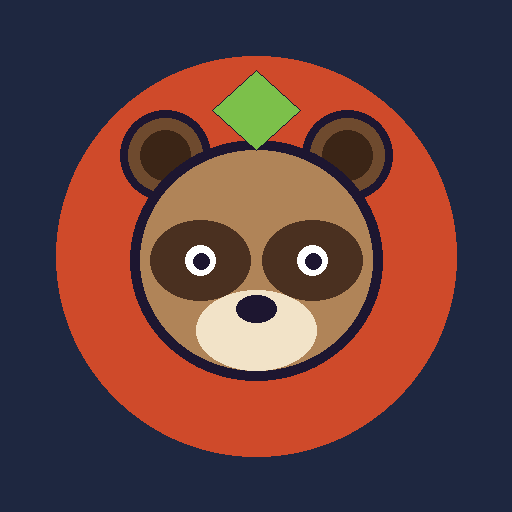
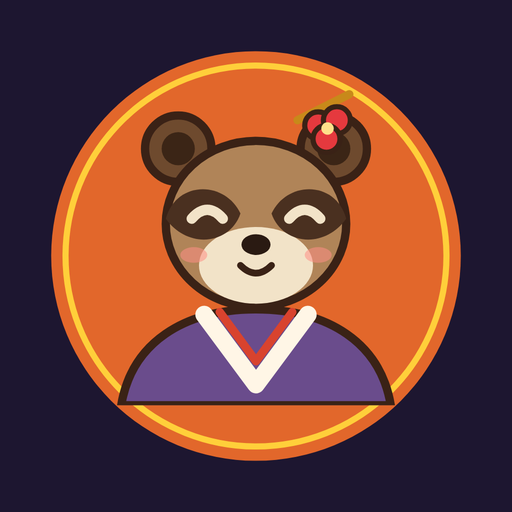
Google Play版：広告（ごほうび広告・ときどき全画面）、Androidアプリ化（Capacitor 8・API 36・縦向き）、GitHubで自動ビルド、新しいアイコン
Claude-Session: https://claude.ai/code/session_0179dnWVGKFM3khheaiQN4n4

diff --git a/index.html b/index.html
@@ -113,6 +113,9 @@ svg .kimono{fill:var(--kimono,#6a4c8c)} svg .hana{fill:var(--hana,#e5393e)}
 .chapclear{position:relative;margin:4px auto 2px;padding:6px 18px;border-radius:8px;background:linear-gradient(#fff3c8,#ffd76a);box-shadow:0 0 0 2.5px #7a4a12,0 3px 0 2.5px #7a4a12;font-family:var(--f-wa);font-size:15px;color:#5a3006;animation:stampin .5s 1.25s both}
 .chapclear small{display:block;font-family:inherit;font-size:11px;color:#8a5a16}
 @keyframes stampin{0%{opacity:0;transform:scale(2.2) rotate(-8deg)}70%{opacity:1;transform:scale(.94) rotate(1deg)}100%{transform:none}}
+.adbtn{display:flex;flex-direction:column;align-items:center;gap:1px;width:100%;margin:8px 0 2px;padding:9px 12px;border:0;border-radius:12px;background:linear-gradient(#3fbf6a,#2a9a50);color:#fff;box-shadow:0 0 0 2.5px #1d1630,0 3px 0 2.5px #1d1630;font-family:var(--f-wa)}
+.adbtn b{font-size:15px;letter-spacing:.04em}.adbtn small{font-size:11.5px;font-weight:800;opacity:.92}
+.adbtn:disabled{filter:grayscale(.7);opacity:.6}
 .achh{margin:8px 0 4px;font-family:var(--f-wa);font-size:13px;color:#f3e3b8;letter-spacing:.05em}
 .achnew{color:var(--ink);width:100%;margin:6px 0 0;padding:7px 10px;border-radius:10px;background:#fff7dc;box-shadow:0 0 0 2px #e9b33a;font-size:12.5px;font-weight:800;text-align:left;animation:rlin .45s 1.5s both}
 .achnew b{color:#b06a00}
@@ -1664,6 +1667,8 @@ function startDay(){
     foes:[],foeT:7,bossDone:false,atkT:1.5,pochiT:2,raidN:0,raidT:0,sp:S.sp||0,ev:null,leak:null,
     evQ:pickEvents(D),rtag:Array.from({length:D.cols*D.floors},()=>D.scroll?TAGS[Math.random()*3|0]:null)});
   for(const o of els.values()){o.el.remove();o.rq&&o.rq.remove()} els.clear();
+  // 広告を見た「助けつき再挑戦」：次の1回だけ時間＋10秒・ふすま＋1
+  if(AD_HELP&&AD_HELP.day===S.day&&!D.endless){S.t+=10;if(D.fusuma)S.fstock+=1;S.helped=true} AD_HELP=null;
   // 前の面の一時停止・吹き出しの残りを片づける
   stage.querySelectorAll('.paused,.coach').forEach(e=>e.remove()); document.querySelector('.tut')?.remove(); hint=null; stage.classList.remove('lastten','rainy');
   for(const o of foeEls.values()) o.el.remove(); foeEls.clear();
@@ -1965,7 +1970,7 @@ function endDay(result){
     S.newAch=checkAch({nofight:result==='clear'&&!D.endless&&!D.daily&&n>=11&&S.stat.fights===0,double:result==='clear'&&!D.endless&&S.cr>=tgt(D)*2});
     if(S.newAch.some(k=>KIMONO.some(m=>m.need===k))) applyKimono();
     save(); }
-  S.history[S.day]={cr:S.cr,result};
+  S.history[S.day]={cr:S.cr,result}; ADS.cnt++;
   sfx(result==='clear'?'win':'lose');
   flash(result==='clear'?'閉店！':result==='caught'?'大騒動！':result==='abandon'?'組合が激怒！':'閉店…',result==='caught'||result==='abandon');
   dirty=true;
@@ -2819,7 +2824,7 @@ try{
   if(!document.querySelector('link[rel=manifest]')) add('link',{rel:'manifest',href:'manifest.webmanifest'});
   add('link',{rel:'apple-touch-icon',href:'icon-192.png'});
   add('meta',{name:'theme-color',content:'#1e2740'}); add('meta',{name:'apple-mobile-web-app-capable',content:'yes'});
-  if('serviceWorker' in navigator&&location.protocol==='https:') navigator.serviceWorker.register('sw.js').catch(()=>{});
+  if('serviceWorker' in navigator&&location.protocol==='https:'&&!(window.Capacitor&&Capacitor.isNativePlatform&&Capacitor.isNativePlatform())) navigator.serviceWorker.register('sw.js').catch(()=>{}); // アプリ版では使わない
 }catch(e){}
 addEventListener('touchend',onUserTap,{passive:true});
 addEventListener('click',onUserTap,{passive:true});
@@ -2998,7 +3003,7 @@ function showScreen(){
         ${nb?'<span class="newrec">自己ベスト更新！</span>':`<p class="note">自己ベスト ${SV.best}組</p>`}
         <div class="failwhy">${why}（${Math.floor(D.time-S.t)}秒）</div>
         <dl class="result"><dt>売上</dt><dd>${S.cr}円</dd><dt>湯仲間ボーナス</dt><dd>${S.stat.chain}回</dd><dt>撃退した山賊</dt><dd>${S.stat.beat}匹</dd></dl>
-        <p class="earn">＋${S.earn.toLocaleString()} 小判<small>（宿の改装に使える）</small></p></div>
+        <p class="earn">＋${S.earn.toLocaleString()} 小判<small>（宿の改装に使える）</small></p>${adBtnHTML('clear')}</div>
         <div class="btnrow resrow stick"><button class="go" data-go="endless">もう一度</button><button class="go sub" data-go="map">ステージ選択</button></div>`;
       scr.hidden=false; focusTop(sc.querySelector('button')); return;
     }
@@ -3034,7 +3039,7 @@ function showScreen(){
       <h2 class="${r==='caught'||r==='abandon'?'R':''}">${title}</h2>
       <dl class="result"><dt>泊まったお客</dt><dd>${S.stat.served}組</dd>${D.tags?`<dt>湯仲間ボーナス</dt><dd>${S.stat.chain}回</dd>`:''}${D.foes?`<dt>撃退した山賊</dt><dd>${S.stat.beat}匹</dd>`:''}</dl>
       <p class="earn">＋${S.earn.toLocaleString()} 小判<small>（宿の改装に使える）</small></p>
-      ${chapc}${resultLine(D,r,n)}${achLine(S.newAch||[])}${tip}${ups}</div>
+      ${chapc}${adBtnHTML(r==='clear'?'clear':'fail')}${resultLine(D,r,n)}${achLine(S.newAch||[])}${tip}${ups}</div>
       <div class="btnrow resrow stick">${r==='clear'&&last?'<button class="go" data-story="end">最終話を見る</button>':''}${btn}<button class="go sub" data-go="map">ステージ選択</button></div>`;
   }
   scr.hidden=false; focusTop(sc.querySelector('button'));
@@ -3184,6 +3189,81 @@ function resultLine(D,r,n){
     const tw=D.tw||{}; if(tw.kouji)c.push('工事のトンカチの音、お客さんにはないしょです。'); if(tw.rain)c.push('雨もり、なんとかしのぎました…！'); if(tw.moon)c.push('満月の夜は、化け術がもたなくてドキドキします。'); if(tw.fast)c.push('せっかちなお客さん、はやく案内できてよかった！'); t=pick(c)}
   else t=r==='caught'?pick(['あわわ…ケンカになっちゃいました。次は間をあけて…！','壁かふすま、もっと使えばよかったかも…。']):r==='abandon'?pick(['お客さんを待たせすぎちゃいました…。','満室のときは、お帰りいただくのも手ですね…。']):pick(['あとちょっと…！ もうひとがんばりです。','おしい！ つぎはもっとお代をいただきましょう。']);
   return `<div class="rline${bad?' bad':''}"><div class="rf">${CH[who].svg()}</div><p><small>${CH[who].name}</small>${t}</p></div>`;
+}
+
+/* ================= 広告（第9版：アプリ版だけ。Web版では何もしない） ================= */
+// 広告IDはアプリを作るときに GitHub の設定から入る。未設定ならGoogleのテスト用ID
+const AD_CFG={rewarded:'__ADMOB_REWARDED_ID__',inter:'__ADMOB_INTERSTITIAL_ID__'};
+const AD_TEST={rewarded:'ca-app-pub-3940256099942544/5224354917',inter:'ca-app-pub-3940256099942544/1033173712'};
+const IS_APP=!!(window.Capacitor&&typeof Capacitor.isNativePlatform==='function'&&Capacitor.isNativePlatform());
+const AD_EVERY=3, AD_GAP=180000, AD_FROM=5; // 全画面広告：3面ごと・3分以上あけて・ステージ5から
+const ADS={on:false,rw:false,it:false,busy:false,cnt:0,last:0,privacy:false,test:true,plug:null,got:false,done:null};
+const adId=k=>{const v=AD_CFG[k];return v&&!v.startsWith('__')?v:AD_TEST[k]};
+async function adsInit(){
+  if(!IS_APP) return;
+  try{
+    const A=ADS.plug=(Capacitor.Plugins&&Capacitor.Plugins.AdMob)||Capacitor.registerPlugin('AdMob');
+    ADS.test=AD_CFG.rewarded.startsWith('__');
+    // 同意が必要な地域（ヨーロッパなど）では、最初に同意の画面を出す
+    let info=await A.requestConsentInfo();
+    if(info.isConsentFormAvailable&&info.status==='REQUIRED') info=await A.showConsentForm();
+    ADS.privacy=info.privacyOptionsRequirementStatus==='REQUIRED';
+    if(!info.canRequestAds) return;
+    await A.initialize({maxAdContentRating:'ParentalGuidance',tagForChildDirectedTreatment:false,tagForUnderAgeOfConsent:false});
+    ADS.on=true;
+    // ごほうび広告の約束（Promise）は、ごほうびを得たときしか返ってこないので、閉じたことは「閉じた」知らせで受け取る
+    A.addListener('onRewardedVideoAdReward',()=>{ADS.got=true});
+    const fin=()=>{const d=ADS.done;ADS.done=null;d&&d()};
+    for(const ev of ['onRewardedVideoAdDismissed','onRewardedVideoAdFailedToShow','interstitialAdDismissed','interstitialAdFailedToShow']) A.addListener(ev,fin);
+    A.addListener('onRewardedVideoAdFailedToLoad',()=>{ADS.rw=false;refreshAdBtns();setTimeout(()=>adLoad('rw'),30000)});
+    A.addListener('interstitialAdFailedToLoad',()=>{ADS.it=false;setTimeout(()=>adLoad('it'),30000)});
+    adLoad('rw'); adLoad('it');
+  }catch(e){ADS.on=false}
+}
+async function adLoad(k){
+  if(!ADS.on) return;
+  try{ if(k==='rw'){await ADS.plug.prepareRewardVideoAd({adId:adId('rewarded'),isTesting:ADS.test});ADS.rw=true;refreshAdBtns()}
+       else{await ADS.plug.prepareInterstitial({adId:adId('inter'),isTesting:ADS.test});ADS.it=true} }catch(e){}
+}
+// 広告を見ている間は、曲も効果音も止める
+function adQuiet(on){
+  ADS.busy=on;
+  if(on){ADS.wasMuted=muted;muted=true;try{for(const k in TRACKS){const T=TRACKS[k];if(T.el&&!T.el.paused){T.el.pause();T.adPaused=true}}ambStopRain();ac&&ac.suspend()}catch(e){}}
+  else{muted=ADS.wasMuted;try{ac&&ac.resume();for(const k in TRACKS){const T=TRACKS[k];if(T.adPaused){T.adPaused=false;if(T.src){const pr=T.el.play();pr&&pr.catch&&pr.catch(()=>{})}}}}catch(e){}}
+}
+function adShow(kind){
+  return new Promise(res=>{
+    if(!ADS.on||ADS.busy||(kind==='rw'?!ADS.rw:!ADS.it)){res(false);return}
+    adQuiet(true); ADS.got=false;
+    const to=setTimeout(()=>{if(ADS.done){ADS.done=null;end()}},120000);
+    const end=()=>{clearTimeout(to);adQuiet(false);ADS.last=Date.now();ADS.cnt=0;
+      if(kind==='rw'){ADS.rw=false;adLoad('rw')}else{ADS.it=false;adLoad('it')} res(kind==='rw'?ADS.got:true)};
+    ADS.done=end;
+    (kind==='rw'?ADS.plug.showRewardVideoAd():ADS.plug.showInterstitial()).then(r=>{if(kind==='rw'&&r)ADS.got=true}).catch(()=>{if(ADS.done){ADS.done=null;end()}});
+  });
+}
+// 結果画面から先へ進むとき、条件がそろったら全画面広告をはさむ
+async function adBreak(){
+  if(!ADS.on||!S||S.adSeen) return;
+  if(ADS.cnt<AD_EVERY||Date.now()-ADS.last<AD_GAP||(typeof S.day==='number'&&S.day+1<AD_FROM&&!DAYS[S.day].daily&&!DAYS[S.day].endless)) return;
+  await adShow('it');
+}
+// ごほうび広告のボタン（クリア：小判2倍／失敗：助けつきで再挑戦）
+function adBtnHTML(r){
+  if(!ADS.on||S.adSeen) return '';
+  if(r==='clear') return S.earn>0?`<button class="adbtn" data-ad="coin" ${ADS.rw?'':'disabled'}><b>▶ 広告を見て 小判2倍</b><small>${ADS.rw?`＋${S.earn.toLocaleString()} 小判`:'広告を読みこみ中…'}</small></button>`:'';
+  if(DAYS[S.day].endless) return '';
+  return `<button class="adbtn" data-ad="help" ${ADS.rw?'':'disabled'}><b>▶ 広告を見て 助けつきで再挑戦</b><small>${ADS.rw?`時間＋10秒${DAYS[S.day].fusuma?'・ふすま＋1':''}（次の1回だけ）`:'広告を読みこみ中…'}</small></button>`;
+}
+function refreshAdBtns(){ const b=sc.querySelector('.adbtn'); if(!b) return; b.outerHTML=adBtnHTML(S.result==='clear'?'clear':'fail') }
+let AD_HELP=null; // 次の挑戦だけ使える助け {day}
+async function onAdBtn(kind){
+  const ok=await adShow('rw'); S.adSeen=true;
+  if(!ok){const b=sc.querySelector('.adbtn'); if(b) b.remove(); return}
+  if(kind==='coin'){SV.bank=(SV.bank||0)+S.earn; S.earn*=2; save(); sfx('coin2'); confetti();
+    const e=sc.querySelector('.earn'); if(e) e.innerHTML=`＋${S.earn.toLocaleString()} 小判<small>（広告で2倍！）</small>`;
+    sc.querySelector('.adbtn')?.remove()}
+  else {AD_HELP={day:S.day}; sfx('special'); startStage(S.day+1)}
 }
 /* ================= ストーリー ================= */
 const CH={
@@ -3561,8 +3641,9 @@ function renderSettings(){
       ${sw('easy',SV.easy,'やさしいモード','時間がゆっくり・目標が少しやさしい')}
       ${sw('vib',c.vib,'ふるえる（バイブ）','ケンカや撃退でスマホがふるえる')}
       ${sw('fx',c.fx,'ゆれ・きらきら演出','オフにすると画面のゆれや粒が出ない')}
-      ${sw('all',!!SV.unlockAll,'すべて解放','全ステージ・強化・ものがたりを最初から使える')}</div>
+      ${IS_APP?'':sw('all',!!SV.unlockAll,'すべて解放','全ステージ・強化・ものがたりを最初から使える')}</div>
     <div class="sgrp"><p class="sh">あそびかた</p><button class="srowbtn" data-tut="1">🔰 チュートリアルをもう一度<span>›</span></button><button class="srowbtn" data-cv="rules">📖 ルール説明をもう一度見る<span>›</span></button><button class="srowbtn" data-op="1">🎬 オープニングをもう一度見る<span>›</span></button></div>
+    ${ADS.privacy?'<div class="sgrp"><p class="sh">広告</p><button class="srowbtn" data-adpriv="1">🛡 広告のプライバシー設定<span>›</span></button></div>':''}
     <div class="sgrp"><p class="sh">データ</p><button class="srowbtn danger ${delArm?'arm':''}" data-del="1">${delArm?'本当に消す？（もう一度タップ）':'🗑 セーブデータを消す'}<span>›</span></button></div>
     <p class="credit">BGM：<a href="https://peritune.com/" target="_blank" rel="noopener">PeriTune</a>「Michikusa」「Michikusa3」「Hanagoyomi2」「Shizima3」</p>
     <button class="go" data-close="1">とじる</button>`;
@@ -3576,6 +3657,7 @@ $('setDlg').addEventListener('click',e=>{
   if(e.target.id==='setDlg'){closeSettings();return}
   const b=e.target.closest('button'); if(!b) return;
   if(b.dataset.close){sfx('sel');closeSettings();return}
+  if(b.dataset.adpriv){sfx('sel');try{ADS.plug.showPrivacyOptionsForm().catch(()=>{})}catch(e){}return}
   if(b.dataset.tut){sfx('sel');SV.tut1=0;save();$('setDlg').hidden=true;document.querySelector('.tut')?.remove();if(S){S.paused=false;stage.querySelector('.paused')?.remove()}startStage(1);return}
   if(b.dataset.cv){sfx('sel');cfgView=b.dataset.cv;renderSettings();return}
   if(b.dataset.op){sfx('sel');$('setDlg').hidden=true;const back=S&&S.scene==='map'?showMap:S&&S.scene==='title'?showScreen:null;playOpening(()=>{if(back)back()});return}
@@ -3603,6 +3685,9 @@ sc.addEventListener('click',e=>{
   initAudio(); ac&&ac.resume&&ac.resume();
   if(e.target.closest('#vn')&&!e.target.closest('[data-go="vnskip"]')){advanceStory();return}
   const so=e.target.closest('[data-story]'); if(so){const st=STORY.find(x=>x.id===so.dataset.story);playStory(st,()=>{S&&S.scene==='result'?showScreen():showMap()});return}
+  const ab=e.target.closest('[data-ad]'); if(ab&&!ab.disabled){sfx('sel');ab.disabled=true;onAdBtn(ab.dataset.ad);return}
+  // 結果画面から先へ進むとき、条件がそろえば全画面広告
+  if(ADS.on&&S&&S.scene==='result'&&!scr.hidden&&!e.__ad&&e.target.closest('.resrow [data-stage],.resrow [data-go],.resrow [data-story]')&&ADS.cnt>=AD_EVERY){const t=e.target;e.stopImmediatePropagation();adBreak().then(()=>{S.adSeen=true;const ev=new MouseEvent('click',{bubbles:true});ev.__ad=1;t.dispatchEvent(ev)});return}
   const km=e.target.closest('[data-kimono]'); if(km&&!km.disabled){SV.kimono=km.dataset.kimono;save();applyKimono();sfx('sel');showAch();return}
   const by=e.target.closest('[data-buy]'); if(by&&!by.disabled){buyShop(by.dataset.buy);return}
   const t=e.target.closest('[data-stage]'); if(t&&!t.disabled){sfx('sel');startStage(+t.dataset.stage);return}
@@ -3739,11 +3824,31 @@ new ResizeObserver(()=>{
   requestAnimationFrame(()=>requestAnimationFrame(()=>stage.classList.remove('noanim')));
 }).observe(stage);
 
+/* ================= アプリ版（Android）の起動 ================= */
+function appInit(){
+  if(!IS_APP) return;
+  document.documentElement.classList.add('app');
+  adsInit();
+  try{
+    const App=(Capacitor.Plugins&&Capacitor.Plugins.App)||Capacitor.registerPlugin('App');
+    // Androidの「戻る」：遊び中は一時停止、各画面からはステージ選択へ、タイトルではアプリを閉じる
+    App.addListener('backButton',()=>{ try{
+      if(ADS.busy) return;
+      if(!$('setDlg').hidden){closeSettings();return}
+      if(OP){endOpening();return}
+      if(VN){clearInterval(VN.timer);const t=VN.then;VN=null;t();return}
+      if(S&&S.scene==='play'&&scr.hidden){setPause(!S.paused);return}
+      if(!S||S.scene==='title'){App.exitApp();return}
+      if(S.scene==='map'){S.scene='title';showScreen();return}
+      document.querySelector('.tut')?.remove(); S.tut=null; S.scene='map'; showMap();
+    }catch(e){} });
+  }catch(e){}
+}
 /* ================= 起動 ================= */
 function start(data){
   S=(data&&data.S&&data.S.v===VER)?data.S:newGame();
   if(S.scene==='rule') S.scene='map';
-  applyKimono(); layout(); scenery(); sizeParticles(); drawInn(); setIcons(); dirty=true;
+  appInit(); applyKimono(); layout(); scenery(); sizeParticles(); drawInn(); setIcons(); dirty=true;
   if(S.scene!=='play') showScreen(); else setPause(true);
   requestAnimationFrame(t=>{last=t;requestAnimationFrame(tick)});
 }

diff --git a/app/scripts/patch-android.js b/app/scripts/patch-android.js
@@ -1,0 +1,33 @@
+// `npx cap add android` で作られた android/ に、広告・縦向き・バージョン・署名の設定を入れる（何度実行しても同じ結果になる）
+const fs = require('fs'), path = require('path');
+const A = path.join(__dirname, '..', 'android', 'app');
+const env = process.env;
+const appId = env.ADMOB_APP_ID || 'ca-app-pub-3940256099942544~3347511713'; // 未設定ならGoogleのテスト用アプリID
+
+// AndroidManifest.xml：AdMobのアプリID、縦向き固定
+const mf = path.join(A, 'src', 'main', 'AndroidManifest.xml');
+let m = fs.readFileSync(mf, 'utf8');
+if (!m.includes('com.google.android.gms.ads.APPLICATION_ID'))
+  m = m.replace('</application>', '        <meta-data android:name="com.google.android.gms.ads.APPLICATION_ID" android:value="@string/admob_app_id" />\n    </application>');
+if (!m.includes('android:screenOrientation'))
+  m = m.replace('android:name=".MainActivity"', 'android:name=".MainActivity"\n            android:screenOrientation="portrait"');
+fs.writeFileSync(mf, m);
+
+// strings.xml：AdMobのアプリID
+const sf = path.join(A, 'src', 'main', 'res', 'values', 'strings.xml');
+let s = fs.readFileSync(sf, 'utf8');
+s = s.replace(/\s*<string name="admob_app_id">[^<]*<\/string>/, '');
+s = s.replace('</resources>', `    <string name="admob_app_id">${appId}</string>\n</resources>`);
+fs.writeFileSync(sf, s);
+
+// build.gradle：バージョン番号と、署名の鍵（KEYSTORE_FILE があるときだけ）
+const gf = path.join(A, 'build.gradle');
+let g = fs.readFileSync(gf, 'utf8');
+g = g.replace(/versionCode \d+/, `versionCode ${parseInt(env.VERSION_CODE || '1', 10)}`)
+     .replace(/versionName "[^"]*"/, `versionName "${env.VERSION_NAME || '1.0'}"`);
+if (env.KEYSTORE_FILE && !g.includes('signingConfigs {')) {
+  g = g.replace(/\n(\s*)buildTypes \{/, `\n$1signingConfigs {\n$1    release {\n$1        storeFile file(System.getenv("KEYSTORE_FILE"))\n$1        storePassword System.getenv("KEYSTORE_PASSWORD")\n$1        keyAlias System.getenv("KEY_ALIAS")\n$1        keyPassword System.getenv("KEY_PASSWORD")\n$1    }\n$1}\n$1buildTypes {`);
+  g = g.replace(/release \{\n(\s*)minifyEnabled/, 'release {\n$1signingConfig signingConfigs.release\n$1minifyEnabled');
+}
+fs.writeFileSync(gf, g);
+console.log('android patched: admob', appId.startsWith('ca-app-pub-3940256099942544') ? '(テスト用)' : '(本番)', 'version', env.VERSION_CODE || 1, env.KEYSTORE_FILE ? '署名あり' : '署名なし');

diff --git a/app/scripts/prepare-www.js b/app/scripts/prepare-www.js
@@ -1,0 +1,16 @@
+// ゲーム本体（../index.html）と曲を、アプリに入れる www/ にまとめる。
+// 広告ID（ADMOB_REWARDED_ID / ADMOB_INTERSTITIAL_ID）が環境変数にあれば差しこむ。なければGoogleのテスト用広告のまま。
+const fs = require('fs'), path = require('path');
+const root = path.join(__dirname, '..', '..'), www = path.join(__dirname, '..', 'www');
+fs.rmSync(www, { recursive: true, force: true });
+fs.mkdirSync(www, { recursive: true });
+let h = fs.readFileSync(path.join(root, 'index.html'), 'utf8');
+// アプリではシステムバーの内側に表示する（viewport-fit=contain）
+h = h.replace(/<meta name="viewport"[^>]*>/, '<meta name="viewport" content="width=device-width,initial-scale=1,viewport-fit=contain">');
+const put = (key, val) => { if (val) h = h.split(key).join(val); };
+put('__ADMOB_REWARDED_ID__', process.env.ADMOB_REWARDED_ID);
+put('__ADMOB_INTERSTITIAL_ID__', process.env.ADMOB_INTERSTITIAL_ID);
+fs.writeFileSync(path.join(www, 'index.html'), h);
+fs.cpSync(path.join(root, 'bgm'), path.join(www, 'bgm'), { recursive: true });
+for (const f of ['manifest.webmanifest', 'icon-192.png', 'icon-512.png']) if (fs.existsSync(path.join(root, f))) fs.copyFileSync(path.join(root, f), path.join(www, f));
+console.log('www ready', process.env.ADMOB_REWARDED_ID ? '(本番の広告ID)' : '(テスト用の広告)');

diff --git a/sw.js b/sw.js
@@ -1,5 +1,5 @@
 // ぽんぽこ温泉宿：一度開いたら電波がなくても起動できるように、ページと音源を保存する
-const CACHE='ponpoko-v8';
+const CACHE='ponpoko-v9';
 // 最初に保存するのはページとタイトル・遊び中の曲だけ（約2MB）。ほかの曲は一度流れたときに保存する
 const FILES=['./','manifest.webmanifest','icon-192.png','icon-512.png','bgm/hanagoyomi2-96.mp3','bgm/michikusa-96.mp3'];
 self.addEventListener('install',e=>{e.waitUntil(caches.open(CACHE).then(c=>Promise.allSettled(FILES.map(f=>c.add(f)))).then(()=>self.skipWaiting()))});
